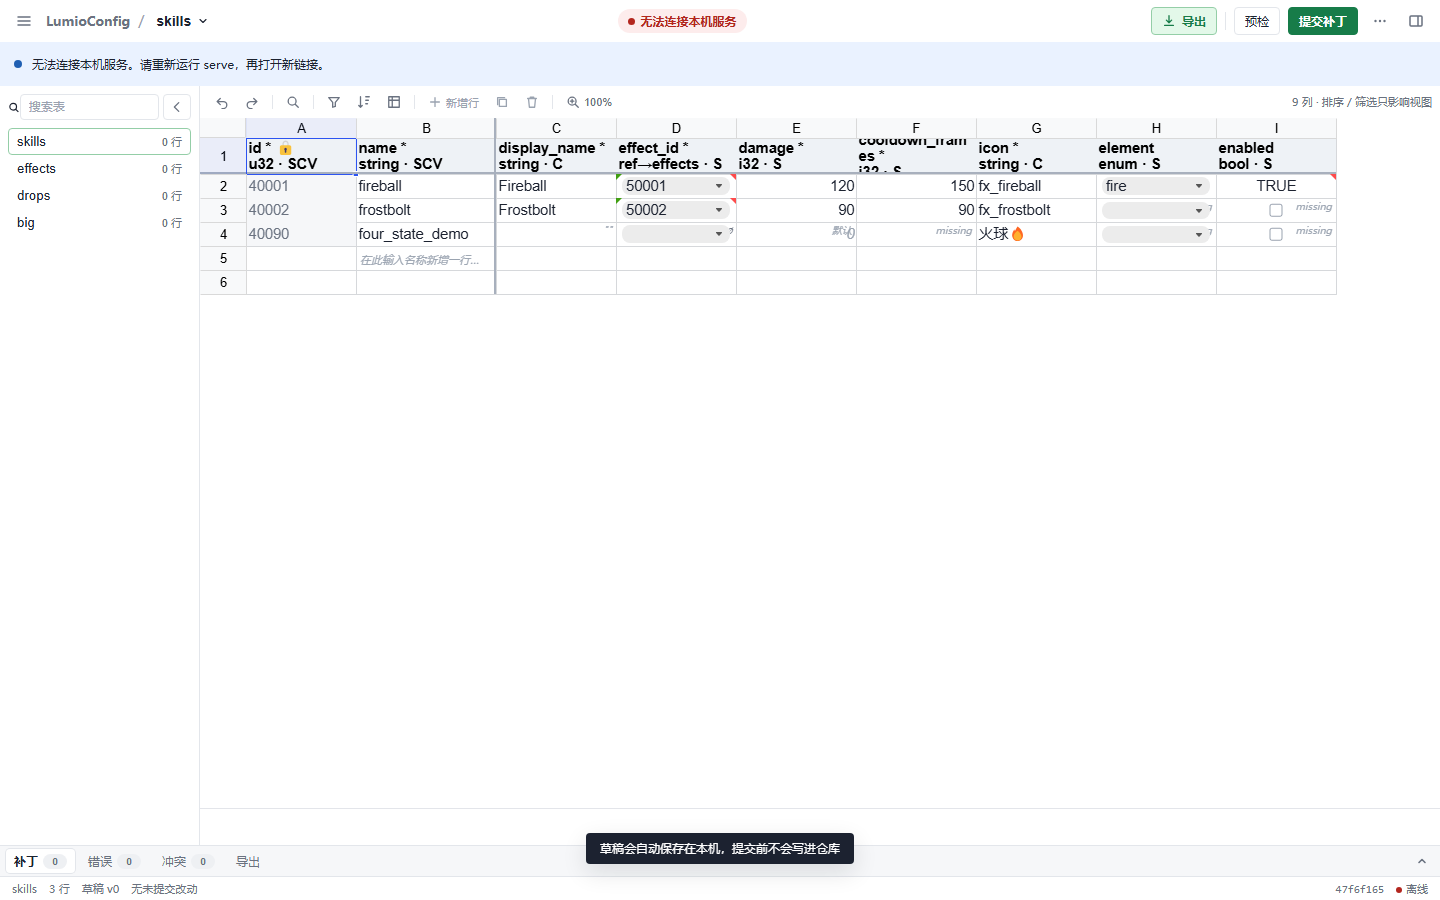
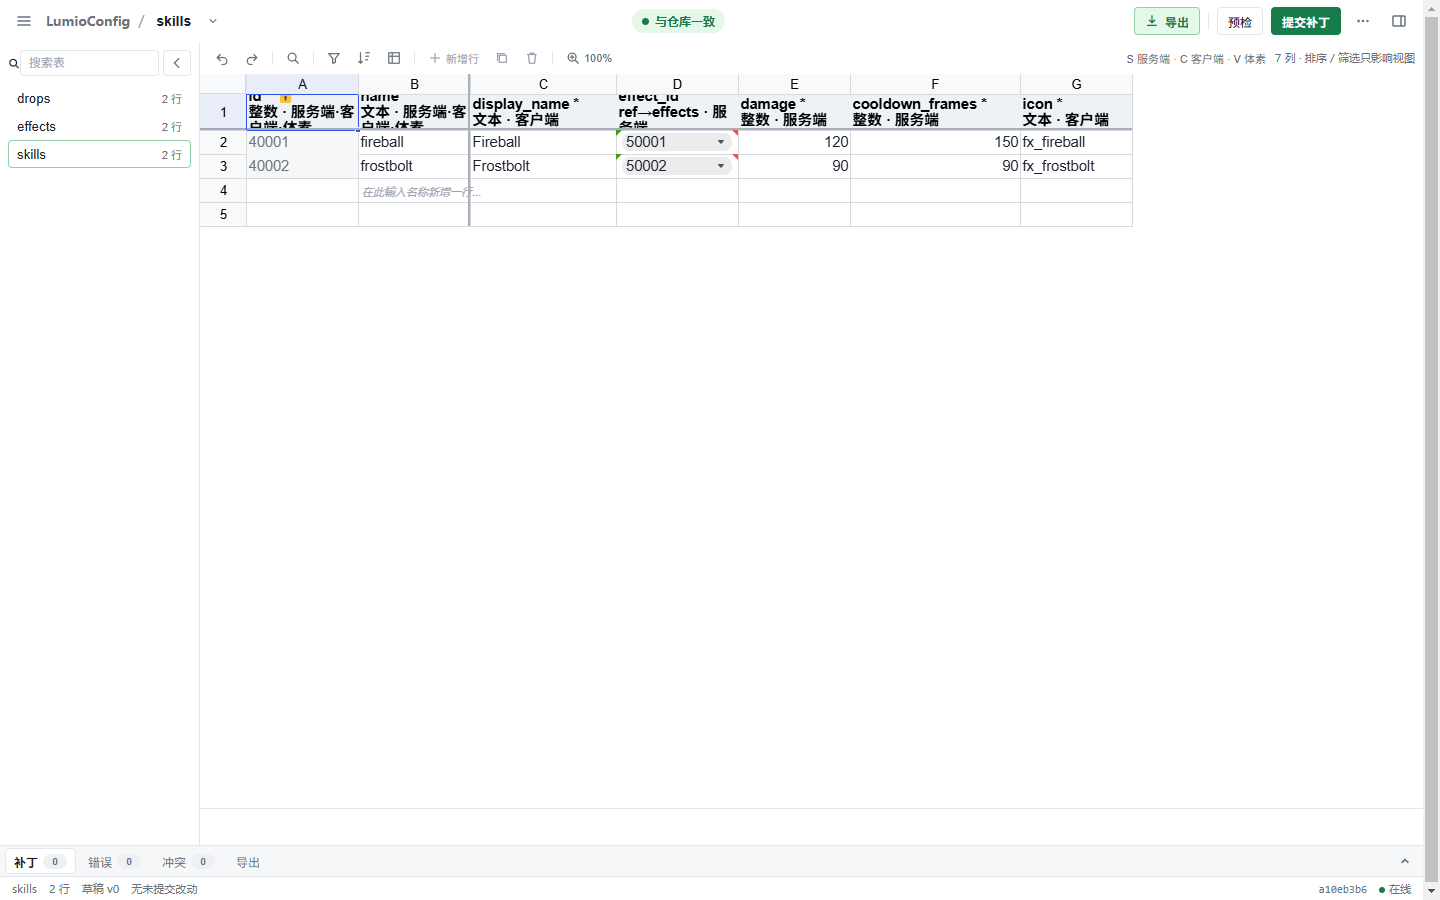
docs(editor): M7 user docs (offline/reconnect, txt export, source view, error codes) + ux design addendum + refreshed screenshots

diff --git a/docs/reference/editor.md b/docs/reference/editor.md
@@ -17,6 +17,14 @@ python tools/lumio_config.py serve
 - **命令面板**：`Ctrl+K`，切表与全部动作用键盘完成。
 - **阻断**：离线 / 会话结束时整页阻断页，按指引回终端重新 `serve`。
 
+## 离线与重连（M7-A）
+
+Host 与编辑器之间有一条每秒一次的心跳事件流。**连接断开**（终端里的 `serve` 进程退出、机器休眠、Host 崩溃）后 **≤ 8 秒**内：状态条「在线」变「离线」、状态胶囊变红「无法连接本机服务」、整页阻断页出现、表格锁定——正在编辑的内容和草稿都保留，不会白屏、不会丢失。
+
+- 掉线期间点切表 / 导出不会出现「提交失败」——那不是你的操作失败，是连接断了；界面保持在阻断页。
+- 编辑器会自动按 1s → 2s → 5s → 10s（封顶）退避重连。**回到终端重新运行 `serve`**（同端口）后 ≤ 12 秒自动恢复在线，草稿还在，可继续编辑；若新会话发了新链接，打开新链接即可（旧页面不会自动拿到新 token）。
+- 一直连不上：阻断页会一直显示，按指引回终端处理。
+
 ## 四态与 Delete
 
 | 四态 | 源 token | 操作 |
@@ -59,7 +67,13 @@ python tools/lumio_config.py serve
 
 ## 导出
 
-「导出」`POST /api/export`，文件 `GET /api/exports/{id}/{file}`。只写 `export.outDir/editor/<exportId>/`。CSV / TSV、UTF-8 BOM、四态写源 token；`= + - @` 等开头加 `'`。`README.txt` 含仓名、修订、指纹、来源、`GENERATED / NOT AUTHORITATIVE — do not import back`。无导入入口，无 XLSX。
+「导出」`POST /api/export`，文件 `GET /api/exports/{id}/{file}`。只写 `export.outDir/editor/<exportId>/`。**CSV / TSV / TXT** 三种格式；CSV / TSV 为 UTF-8 BOM、四态写源 token、`= + - @` 等开头加 `'`。`README.txt` 含仓名、修订、指纹、来源、`GENERATED / NOT AUTHORITATIVE — do not import back`。无导入入口，无 XLSX。
+
+**TXT（权威文本格式）**：内容与 `tables/<t>.txt` 逐字节一致（`source=repo` 时），四态 token 原样保留。**TXT 是只读快照，不能拷回 `tables/` 覆盖**——改表请在表格里改、提交补丁。TXT 只出全列（目标列过滤不可用）；含未提交草稿导出时文件名为 `<t>.draft.txt` 并在 README 中单独警告「含未提交草稿，与仓库不一致」。
+
+## 查看源文件（M7-E）
+
+表列表右键（或聚焦表名后 `Shift+F10` / `ContextMenu` 键）→「查看源文件 `tables/<t>.txt` / 查看 Schema `schemas/<t>.json`」打开只读查看器：等宽字体、带行号、可复制全文。**这是只读快照，改这里不会改仓库**——要改表请在表格里改，再提交补丁。文件超过 2 MiB 不在编辑器里显示（提示在编辑器外打开）。每次打开都重新拉取，与仓库当前内容一致。
 
 ## 错误码
 
@@ -125,3 +139,5 @@ Host 用 `VcsAdapter` 白名单命令（`git log` / `git show`）取两修订快
 | `VCS_COMMIT_FAILED` / `EXPORT_FAILED` | 改动已合入但 commit / 导表未完成 | Failed 横幅（终端手动处理） |
 | `UNKNOWN_TABLE` | 表不存在 | 404
 | `BAD_LIMIT` | history 的 limit 不是 1–100 整数 | 422(改动页签拉取失败提示) |
+| `NETWORK_UNREACHABLE` | Host 进程不可达（fetch 本身失败） | 掉线派生态：整页阻断 + 自动重连，不是「提交失败」（M7-A） |
+| `PAYLOAD_TOO_LARGE` | 源文件查看器请求的文件 > 2 MiB | 查看器显示「文件太大，编辑器里不显示」（M7-E） |

diff --git a/.spec/knowledge/features/web-editor-ux.md b/.spec/knowledge/features/web-editor-ux.md
@@ -3,7 +3,7 @@ name: web-editor-ux
 description: 网页编辑器 v3 界面设计（IA、状态映射、令牌、抽屉、检查器、快捷键、文案表）——改 editor/ 布局、面板或用户文案时查
 metadata:
   type: doc
-  status: 设计中
+  status: 已交付
 ---
 
 # 网页编辑器 UX 设计（v3）
@@ -215,3 +215,15 @@ Univer 单元格样式（`projection.ts` 的 `STYLES`）是工作簿数据，不
 | 视图状态 `seen` | `spreadsheet/viewState.ts` | — |
 
 `data-testid`：E2E 实际引用的只有 `univer-root` `table-<name>` `status-hint` `draft-refresh` `btn-export` `export-link` `conflict-panel` `conflict-mine`，这 8 个必须保留（`status-hint` 改为视觉隐藏的 live region，仍含关键词「标签页」「合并」「公式」「id」「已合入仓库」）。其余现有 testid（`btn-validate` `btn-submit` `status-*` `conflict-*` `four-state-*` `export-*` `setting-autocommit`）保留命名以便新 E2E 复用。新增：`banner` `inspector` `cell-baseline` `invalid-reason` `panel` `tab-*` `submit-result` `command-palette` `context-menu` `conflict-resubmit`。E2E 文本断言只有 6 个中文片段（`host-drafts` 「标签页」；`sheet-ops` 「合并」「id」「公式」；`host-rebase` 「已合入仓库」「打开时」），改文案时同卡改断言。
+
+## 14. M7 加固批次的设计现状（2026-09-04 交付）
+
+v3 主干（M6）之后，M7 加固批次对以下设计点做了增量，均已是实现现状：
+
+- **离线可感知（M7-A）**：SSE 字节层心跳（Host 每秒一个冒号注释块）喂 5 秒看门狗；断流/判死派发 `online:false` → 整页阻断页（本文 §5 的派生态行成为现实），自动退避重连（1s→2s→5s→10s 封顶）；网络不可达（`NETWORK_UNREACHABLE`）不再落 `Failed`，掉线时切表保留工作簿不卸载。
+- **错误页签收敛（M7-B）**：ErrorTab 空态以状态为准——`dirtyCount===0` 无条件优先 `no-changes`；脏格归零（还原/undo/撤销删行/切表）即清错误列表；跳格对行名与 rowId 两种负载都能解析。
+- **列头可读性（M7-C）**：列头第二行中文化（`COPY.columnType` / `COPY.visibility`，未知值回落原字面量）；列宽按列名自适应（CJK 计 2、clamp 112–240，`cooldown_frames` 不折行）；工具栏常驻可点 S/C/V 图例（`--color-text-muted`，弹 Dialog 展开完整说明，键盘可达）。
+- **源文件路径可见（M7-D）**：Host 表摘要新增 `sourcePath`；顶栏表名 `⌄` 菜单两条只读路径条目（复制 + toast）。
+- **源文件只读查看器（M7-E）**：表列表右键 / `Shift+F10` → 查看源文件或 Schema；`GET /api/tables/{t}/source?kind=…` 四道安全边界；查看器宽 720、等宽、行号、三态（加载/过大 413/失败）；reveal 菜单项按 `capabilities.reveal` 整项不渲染（M7-G 未授权，Host 默认 false）。
+- **导出 TXT（M7-F）**：格式列表由 `capabilities.export` 下发（csv/tsv/txt）；TXT 与 `tables/<t>.txt` 逐字节一致、只读快照不可回导、只出全列（targets 非空即 400）；draft 导出命名 `<t>.draft.txt` 并加 README 警告。
+- **存储访问器（M7-K）**：`app/storage.ts` 的 `safeStorage`/`isStorageFallback` 永不抛；`editor/src/**` 禁裸 `localStorage.`/`sessionStorage.`（守卫测试在库）。
